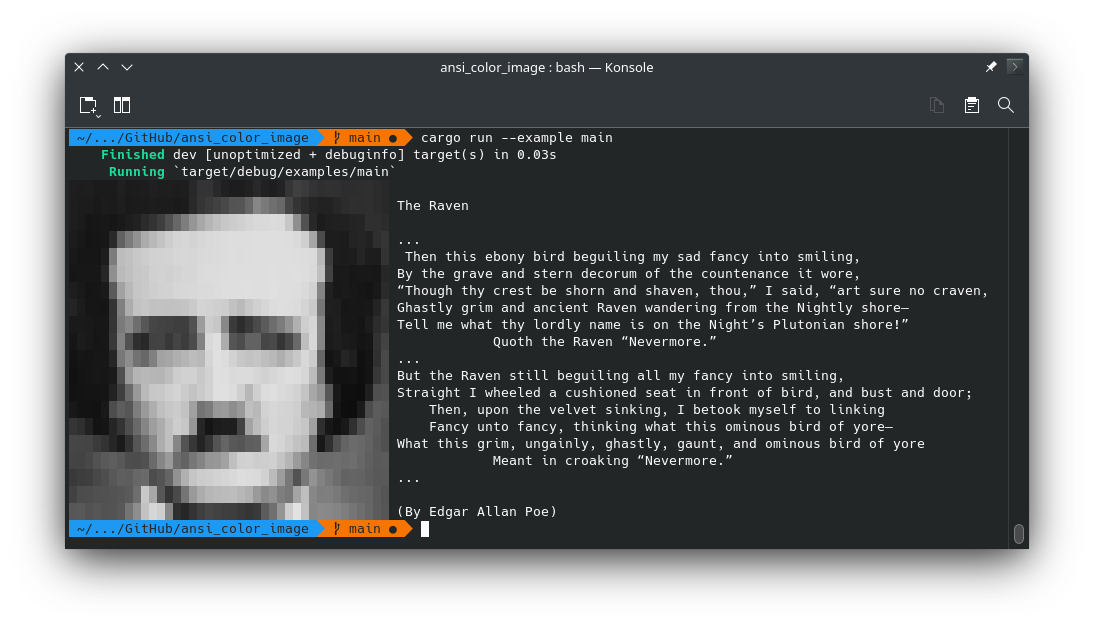
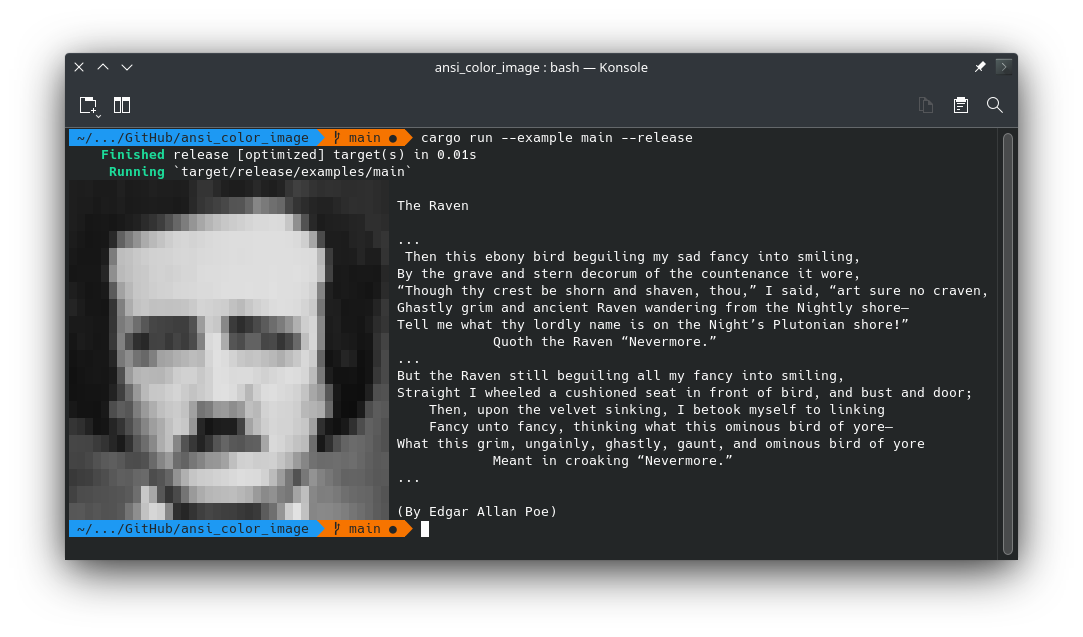
Options

diff --git a/src/lib.rs b/src/lib.rs
@@ -8,102 +8,82 @@
 //!use ansi_color_image as aci;
 //!
 //!fn main() {
-//!    let url = "examples/data/neon.png";
-//!    let mut img = aci::ImageColorMap::new(url, Some(20), Some(40), Some(20.0), Some(-15), false);
-//!    //                                   image height    width     contrast    brightness bg_color
-//!
+//!    let mut img = aci::ImageColorMap::new("examples/data/neon.png");
+//!    img.dimensions(40, 20);                   // Width and height.
+//!    img.filter(20.0, -15);                    // Contrast and brightness.
+//!                                              //
 //!    for pixel_line in img.build_pixel_map() { // pixel_line = [pixel, pixel, pixel]
-//!        for pixel in pixel_line {            //  pixel = ("*", "\x1b[38;2;0;0;0m")
-//!            let (txt, ansi_code) = pixel;
-//!            print!("{}{}", ansi_code, txt);  // Print without newline
-//!        }
-//!        img.reset_terminal_color();  // Prevent colored cursor when finished
-//!        println!();  // New line
+//!        for pixel in pixel_line {             // pixel = ("\x1b[38;2;0;0;0m", "*")
+//!            let (ansi_code, txt) = pixel;     //
+//!            print!("{}{}", ansi_code, txt);   // Print without newline.
+//!        }                                     //
+//!        img.reset_terminal_color();           // Prevent colored cursor when finished.
+//!        println!();                           // New line.
 //!    }
 //!}
 //! ```
 
 use image::{
-    GenericImageView, open,  // Rgba, DynamicImage
+    open,  // GenericImageView, Rgba, DynamicImage
     imageops::{FilterType, resize},
 };
 
 #[derive(Debug)]
 pub struct ImageColorMap {
     url_image: String,
-    height: Option<u32>,
-    width: Option<u32>,
-    contrast: Option<f32>,
-    brightness: Option<i32>,
+    height: u32,
+    width: u32,
+    contrast: f32,
+    brightness: i32,
     background_color: bool,
 }
 
 impl ImageColorMap {
     pub fn new(
-        url_image: &str, 
-        height: Option<u32>,
-        width: Option<u32>,
-        contrast: Option<f32>,
-        brightness: Option<i32>,
-        background_color: bool,
+        url_image: &str,
     ) -> ImageColorMap {
         let url_image = String::from(url_image);
 
         ImageColorMap {
             url_image,
-            height,
-            width,
-            contrast,
-            brightness,
-            background_color,
+            height: 20,
+            width: 40,
+            contrast: 0.0,
+            brightness: 0,
+            background_color: false,
         }
+    }
+
+    pub fn dimensions(&mut self, width: u32, height: u32) {
+        self.width = width;
+        self.height = height;
+    }
+
+    pub fn filter(&mut self, contrast: f32, brightness: i32) {
+        self.contrast = contrast;
+        self.brightness = brightness;
+    }
+
+    pub fn background_color(&mut self, background_color: bool) {
+        self.background_color = background_color;
     }
 
     pub fn build_pixel_map(&mut self) -> Vec<Vec<(String, String)>> {
         // Image
         let img = open(&self.url_image).unwrap();
 
-        // Original size
-        let (original_width, original_height) = img.dimensions();
-
-        // Height
-        if let Some(w) = self.height {
-            self.height = Some(w);
-        } else {
-            self.height = Some(original_height);
-        }
-
-        // Width
-        if let Some(w) = self.width {
-            self.width = Some(w);
-        } else {
-            self.width = Some(original_width);
-        }
-
         // Resize
         let mut new_img = resize(
-            &img, self.width.unwrap(), self.height.unwrap(), FilterType::Triangle);
+            &img, self.width, self.height, FilterType::Triangle);
         
         // Contrast
-        if let Some(c) = self.contrast {
-            self.contrast = Some(c);
-        } else {
-            self.contrast = None;
-        }
-
-        if let Some(c) = self.contrast {
-            new_img = image::imageops::contrast(&new_img, c);
+        if self.contrast != 0.0 {
+            new_img = image::imageops::contrast(&new_img, self.contrast);
         }
 
         // Brightness
-        if let Some(b) = self.brightness {
-            self.brightness = Some(b);
-        } else {
-            self.brightness = None;
-        }
-
-        if let Some(b) = self.brightness {
-            new_img = image::imageops::colorops::brighten(&new_img, b);
+        if self.brightness != 0 {
+            new_img = image::imageops::colorops::brighten(&new_img, self.brightness);
         }
 
         // Return Map
@@ -118,33 +98,33 @@ impl ImageColorMap {
         for &pixel in new_img.pixels() {
             let rgba = pixel;  // Rgba([3, 15, 19, 14])
             let [r, g, b, _a] = rgba.0;
+
+            let map_ascii_chars = [
+                " ", " ", ":", "i", "/", "n", "k", "m", "0", "@", "#"];
             
-            // https://github.com/EbonJaeger/asciifyer/blob/main/src/lib.rs
-            let brightness_ = (
+            let pixel_brightness = (  // github.com/EbonJaeger/asciifyer/blob/main/src/lib.rs
                 (0.2126 * r as f64) + (0.7152 * g as f64) + (0.0722 * b as f64)) as f64;
 
-            let ascii_chars = [" ", " ", ":", "i", "/", "n", "k", "m", "0", "@", "#"];
-            // let ascii_chars = ["#", "@", "0", "m", "k", "n", "/", "i", ":", " ", " "];
-            let ascii_chars_index =(
-                (brightness_ / 255.0) * (ascii_chars.len() - 1) as f64).round() as usize;
+            let ascii_chars_index = (
+                (pixel_brightness / 255.0) * (map_ascii_chars.len() - 1) as f64).round() as usize;
 
             // Update map
             if count == 1 {
                 pixels_map.push(
                     vec![(
                         self.rgb_to_ansi(r, g, b, self.background_color),
-                        String::from(ascii_chars[ascii_chars_index])
+                        String::from(map_ascii_chars[ascii_chars_index])
                     )]
                 );
             } else {
                 pixels_map[line].push((
                     self.rgb_to_ansi(r, g, b, self.background_color),
-                    String::from(ascii_chars[ascii_chars_index])
+                    String::from(map_ascii_chars[ascii_chars_index])
                 ));
             }
 
             // Update loop config
-            if count == self.width.unwrap() as usize {
+            if count == self.width as usize {
                 line += 1;
                 count = 1;
             } else {
@@ -161,17 +141,6 @@ impl ImageColorMap {
     }
 
     fn rgb_to_ansi(&self, r: u8, g: u8, b: u8, bg: bool) -> String {
-        // bold           1
-        // dimmed         2 *
-        // italic         3
-        // underline      4
-        // blink          5
-        // reverse        7
-        // hidden         8
-        // strikethrough  9
-
-        // fg: 38
-        // bg: 48
         let use_fg = 38;
         let use_bg = 48;
 
@@ -184,18 +153,9 @@ impl ImageColorMap {
 
 #[cfg(test)]
 mod tests {
-    use super::*;
+    // use super::*;
     #[test]
     fn it_works() {
-        let mut icm = ImageColorMap::new(
-            "/usr/share/pixmaps/neon.png",
-            Some(20),
-            Some(40),
-            None,
-            None,
-            false,
-        );
-        let _bpm = icm.build_pixel_map();
         let result = 2 + 2;
         assert_eq!(result, 4);
     }

diff --git a/examples/main.rs b/examples/main.rs
@@ -15,17 +15,17 @@ fn main() {
 
 #[allow(dead_code)]
 fn neon_logo_example() {
-    let url = "examples/data/neon.png";
-    let mut img = aci::ImageColorMap::new(url, Some(20), Some(40), Some(20.0), Some(-15), false);
-    //                                   image height    width     contrast    brightness bg_color
-
+    let mut img = aci::ImageColorMap::new("examples/data/neon.png");
+    img.dimensions(40, 20);                   // Width and height.
+    img.filter(20.0, -15);                    // Contrast and brightness.
+                                              //
     for pixel_line in img.build_pixel_map() { // pixel_line = [pixel, pixel, pixel]
-        for pixel in pixel_line {            //  pixel = ("\x1b[38;2;0;0;0m", "*")
-            let (ansi_code, txt) = pixel;
-            print!("{}{}", ansi_code, txt);  // Print without newline
-        }
-        img.reset_terminal_color();  // Prevent colored cursor when finished
-        println!();  // New line
+        for pixel in pixel_line {             // pixel = ("\x1b[38;2;0;0;0m", "*")
+            let (ansi_code, txt) = pixel;     //
+            print!("{}{}", ansi_code, txt);   // Print without newline.
+        }                                     //
+        img.reset_terminal_color();           // Prevent colored cursor when finished.
+        println!();                           // New line.
     }
 }
 
@@ -51,9 +51,9 @@ What this grim, ungainly, ghastly, gaunt, and ominous bird of yore
 ...
 
 (By Edgar Allan Poe)";
-    let url = "examples/data/poe.png";
-    let mut img = aci::ImageColorMap::new(url, Some(20), Some(40), None, None, true);
-    //                                   image height    width                 bg_color
+    let mut img = aci::ImageColorMap::new("examples/data/poe.png");
+    img.background_color(true);
+
     for (pixel_line, poem_line) in img.build_pixel_map().iter().zip(poem.split("\n")) {
         // IMAGE:
         for pixel in pixel_line {
@@ -88,10 +88,10 @@ What this grim, ungainly, ghastly, gaunt, and ominous bird of yore
 ...
 
 (By Edgar Allan Poe)";
-    
-    let image_width = 40;
-    let mut img = aci::ImageColorMap::new(
-        "examples/data/poe.png", Some(20), Some(image_width), None, None, true);
+
+    let mut img = aci::ImageColorMap::new("examples/data/poe.png");
+    img.background_color(true);
+
     for (pixel_line, poem_line) in img.build_pixel_map().iter().zip(poem.split("\n")) {
         // IMAGE:
         for pixel in pixel_line {
@@ -109,7 +109,7 @@ What this grim, ungainly, ghastly, gaunt, and ominous bird of yore
         let (mut line, mut count) = (String::new(), 1);
         for c in poem_line.chars() {
             line.push(c);  //                      1: the space on println!
-            if count == (term_size - image_width - 1) {break;} else {count += 1;}
+            if count == (term_size - 40 - 1) {break;} else {count += 1;}
         }
         println!(" {}", line);
     }

diff --git a/README.md b/README.md
@@ -10,16 +10,17 @@ Example:
 use ansi_color_image as aci;
 
 fn main() {
-    let url = "examples/data/neon.png"; //url  height    width     contrast    brightness bg_color
-    let mut img = aci::ImageColorMap::new(url, Some(20), Some(40), Some(20.0), Some(-15), false);
-
-    for pixel_line in img.build_pixel_map() { // pixel_line: [pixel, pixel, pixel]
-        for pixel in pixel_line {            //  pixel:      ("\x1b[38;2;0;0;0m", "*")
-            let (ansi_code, txt) = pixel;   //
-            print!("{}{}", ansi_code, txt);// Print without newline
-        }                                 //
-        img.reset_terminal_color();      // Prevent colored cursor when finished
-        println!();                     //  New line
+    let mut img = aci::ImageColorMap::new("examples/data/neon.png");
+    img.dimensions(40, 20);                   // Width and height.
+    img.filter(20.0, -15);                    // Contrast and brightness.
+                                              //
+    for pixel_line in img.build_pixel_map() { // pixel_line = [pixel, pixel, pixel]
+        for pixel in pixel_line {             // pixel = ("\x1b[38;2;0;0;0m", "*")
+            let (ansi_code, txt) = pixel;     //
+            print!("{}{}", ansi_code, txt);   // Print without newline.
+        }                                     //
+        img.reset_terminal_color();           // Prevent colored cursor when finished.
+        println!();                           // New line.
     }
 }
 ```
@@ -48,18 +49,18 @@ What this grim, ungainly, ghastly, gaunt, and ominous bird of yore
 ...
 
 (By Edgar Allan Poe)";
-let url = "examples/data/poe.png"; // url  height    width                 bg_color
-let mut img = aci::ImageColorMap::new(url, Some(20), Some(40), None, None, true);
+    let mut img = aci::ImageColorMap::new("examples/data/poe.png");
+    img.background_color(true);
 
-for (pixel_line, poem_line) in img.build_pixel_map().iter().zip(poem.split("\n")) {
-    // IMAGE:
-    for pixel in pixel_line {
-        let (ansi_code, _txt) = pixel; // 'pixel.0'
-        print!("{} ", ansi_code);     // shows only colors without text character
-    }                                // Note: 'ImageColorMap->background_color' is 'true'
-    // POEM:
-    img.reset_terminal_color();
-    println!(" {}", poem_line);
-}
+    for (pixel_line, poem_line) in img.build_pixel_map().iter().zip(poem.split("\n")) {
+        // IMAGE:
+        for pixel in pixel_line {
+            let (ansi_code, _txt) = pixel;
+            print!("{} ", ansi_code);  // shows only colors without text character
+        }
+        // POEM:
+        img.reset_terminal_color();
+        println!(" {}", poem_line);
+    }
 ```
 ![Image](data/screenshot_02.png "screenshot")
